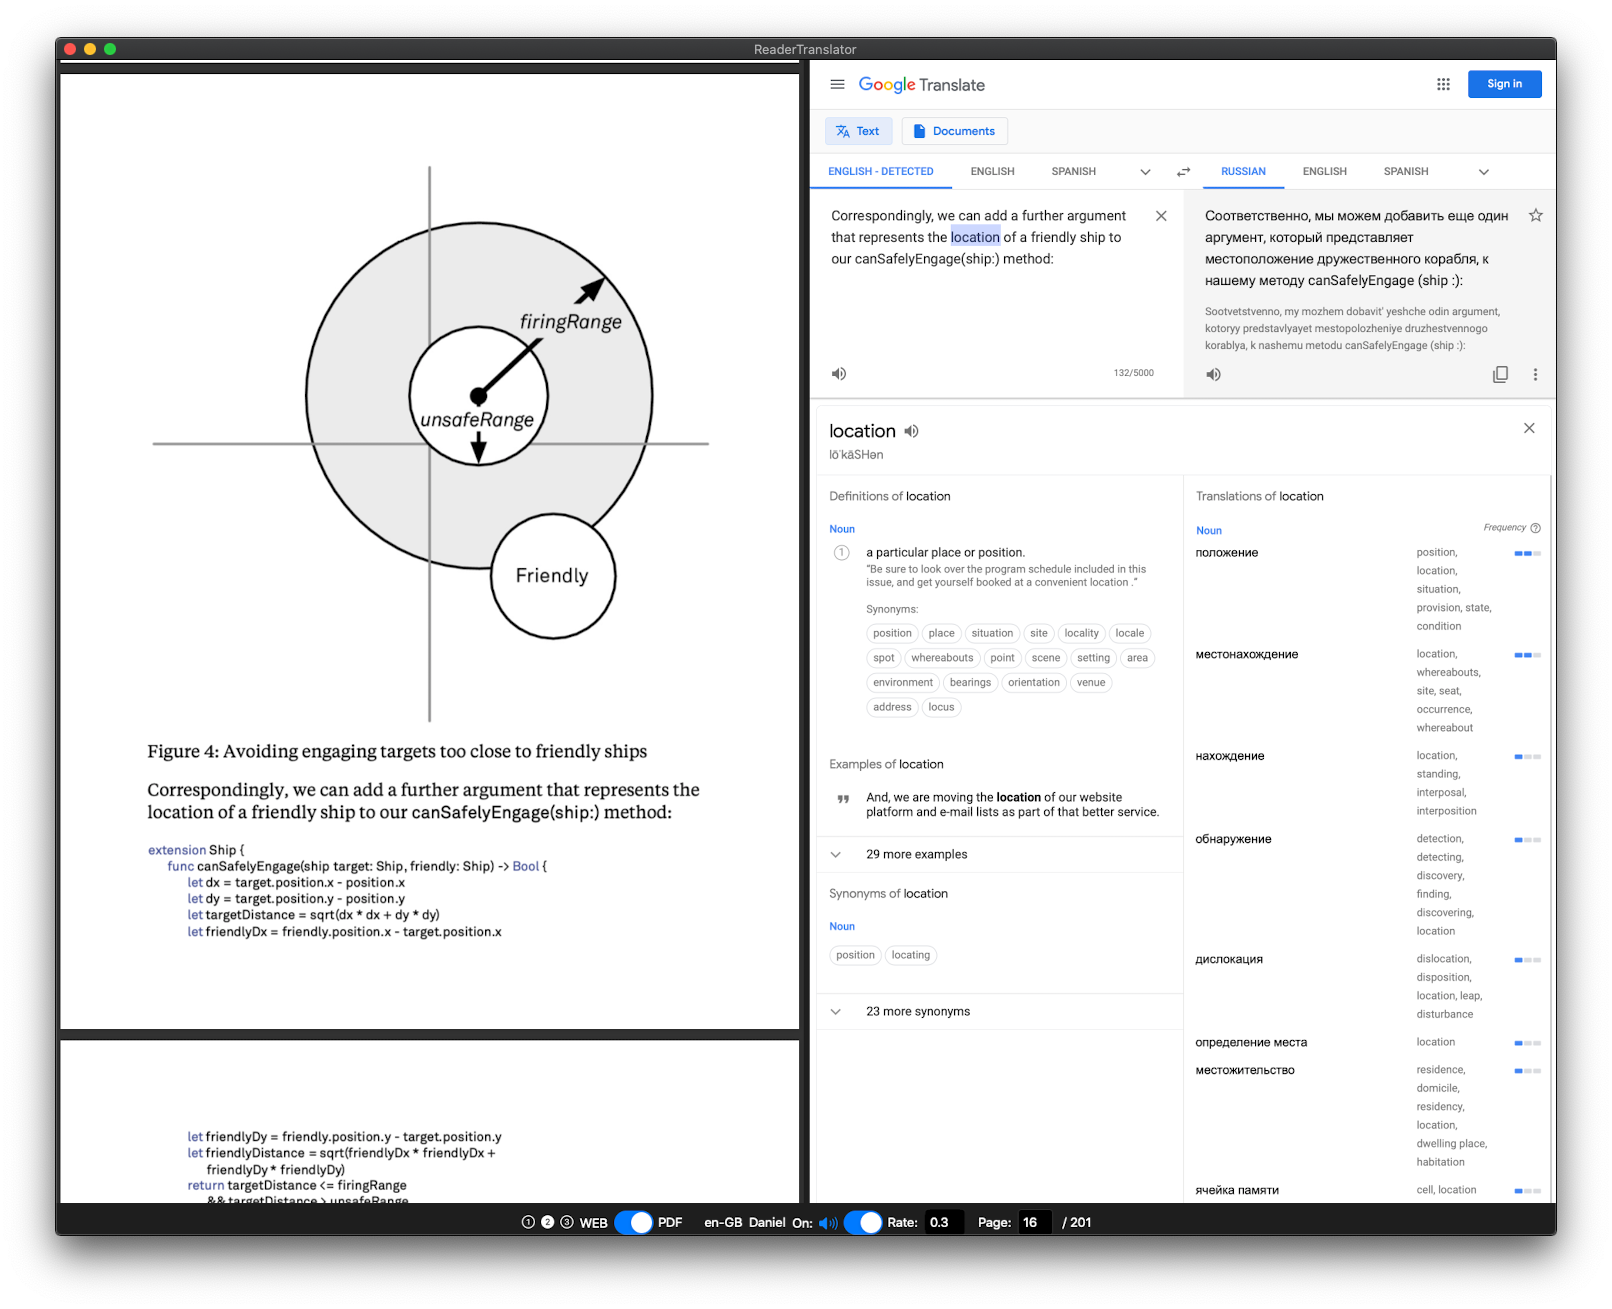
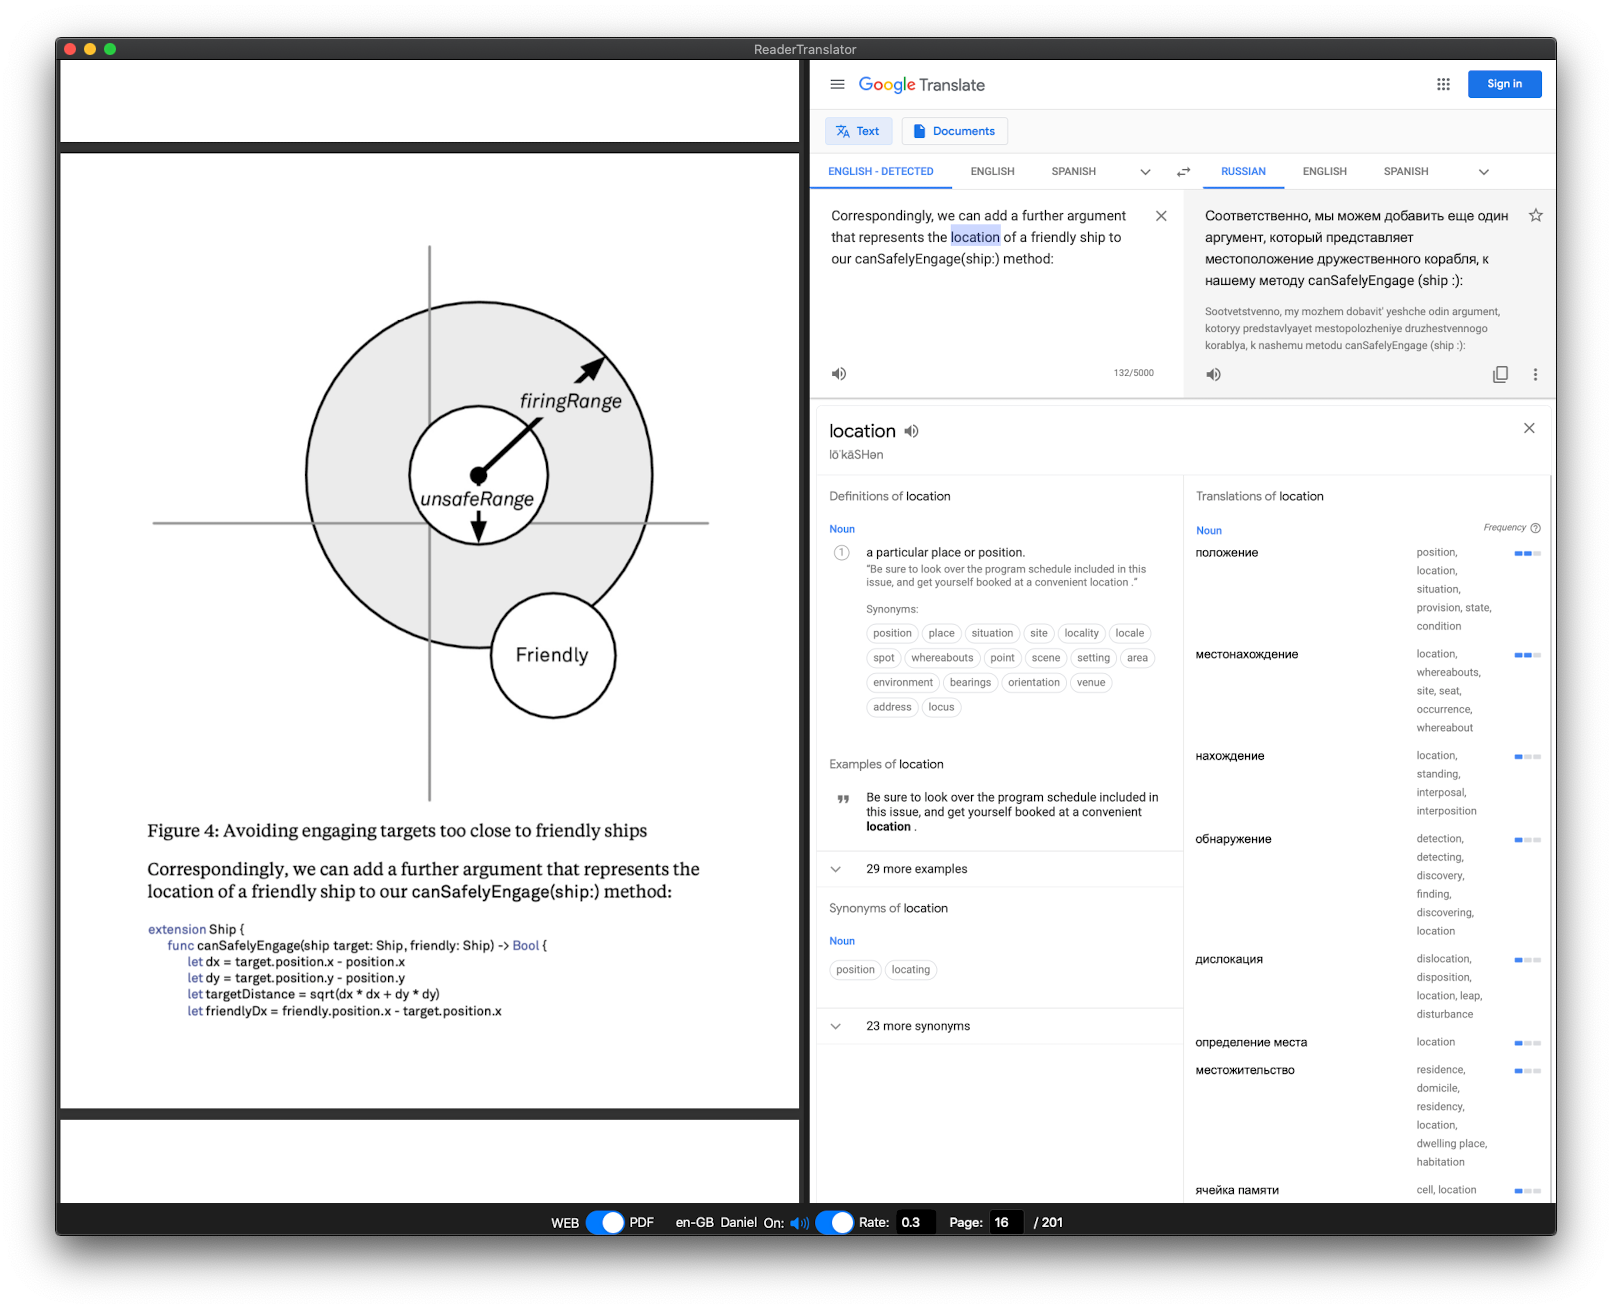
Hide web pages tab.

diff --git a/ReaderTranslator/Views/StatusBarView.swift b/ReaderTranslator/Views/StatusBarView.swift
@@ -14,7 +14,7 @@ struct StatusBarView: View {
     
     var body: some View {
         HStack {
-            StatusBarView_Tabs(currentTab: self.$store.currentTab)
+            StatusBarView_Tabs(viewMode: $store.viewMode, currentTab: $store.currentTab)
             StatusBarView_Zoom()
             StatusBarView_PdfMode()
             StatusBarView_Voice()
@@ -24,13 +24,16 @@ struct StatusBarView: View {
 }
 
 struct StatusBarView_Tabs: View {
+    @Binding var viewMode: ViewMode
     @Binding var currentTab: Int
     
     var body: some View {
         Group {
-            Image(systemName: "1.circle\(iconStatus(0))").onTapGesture { self.currentTab = 0 }
-            Image(systemName: "2.circle\(iconStatus(1))").onTapGesture { self.currentTab = 1 }
-            Image(systemName: "3.circle\(iconStatus(2))").onTapGesture { self.currentTab = 2 }
+            if viewMode == .web {
+                Image(systemName: "1.circle\(iconStatus(0))").onTapGesture { self.currentTab = 0 }
+                Image(systemName: "2.circle\(iconStatus(1))").onTapGesture { self.currentTab = 1 }
+                Image(systemName: "3.circle\(iconStatus(2))").onTapGesture { self.currentTab = 2 }
+            }
         }
     }
     

diff --git a/README.md b/README.md
@@ -9,6 +9,7 @@ This project is demo how to use SwiftUI, Combine and Catalyst together
 ![DEMO](files/demo.gif)
 
 ![](files/Screen8.png)
+![](files/Screen9.png)
 ![](files/Screen1.png)
 ![](files/Screen2.png)
 ![](files/Screen3.png)
